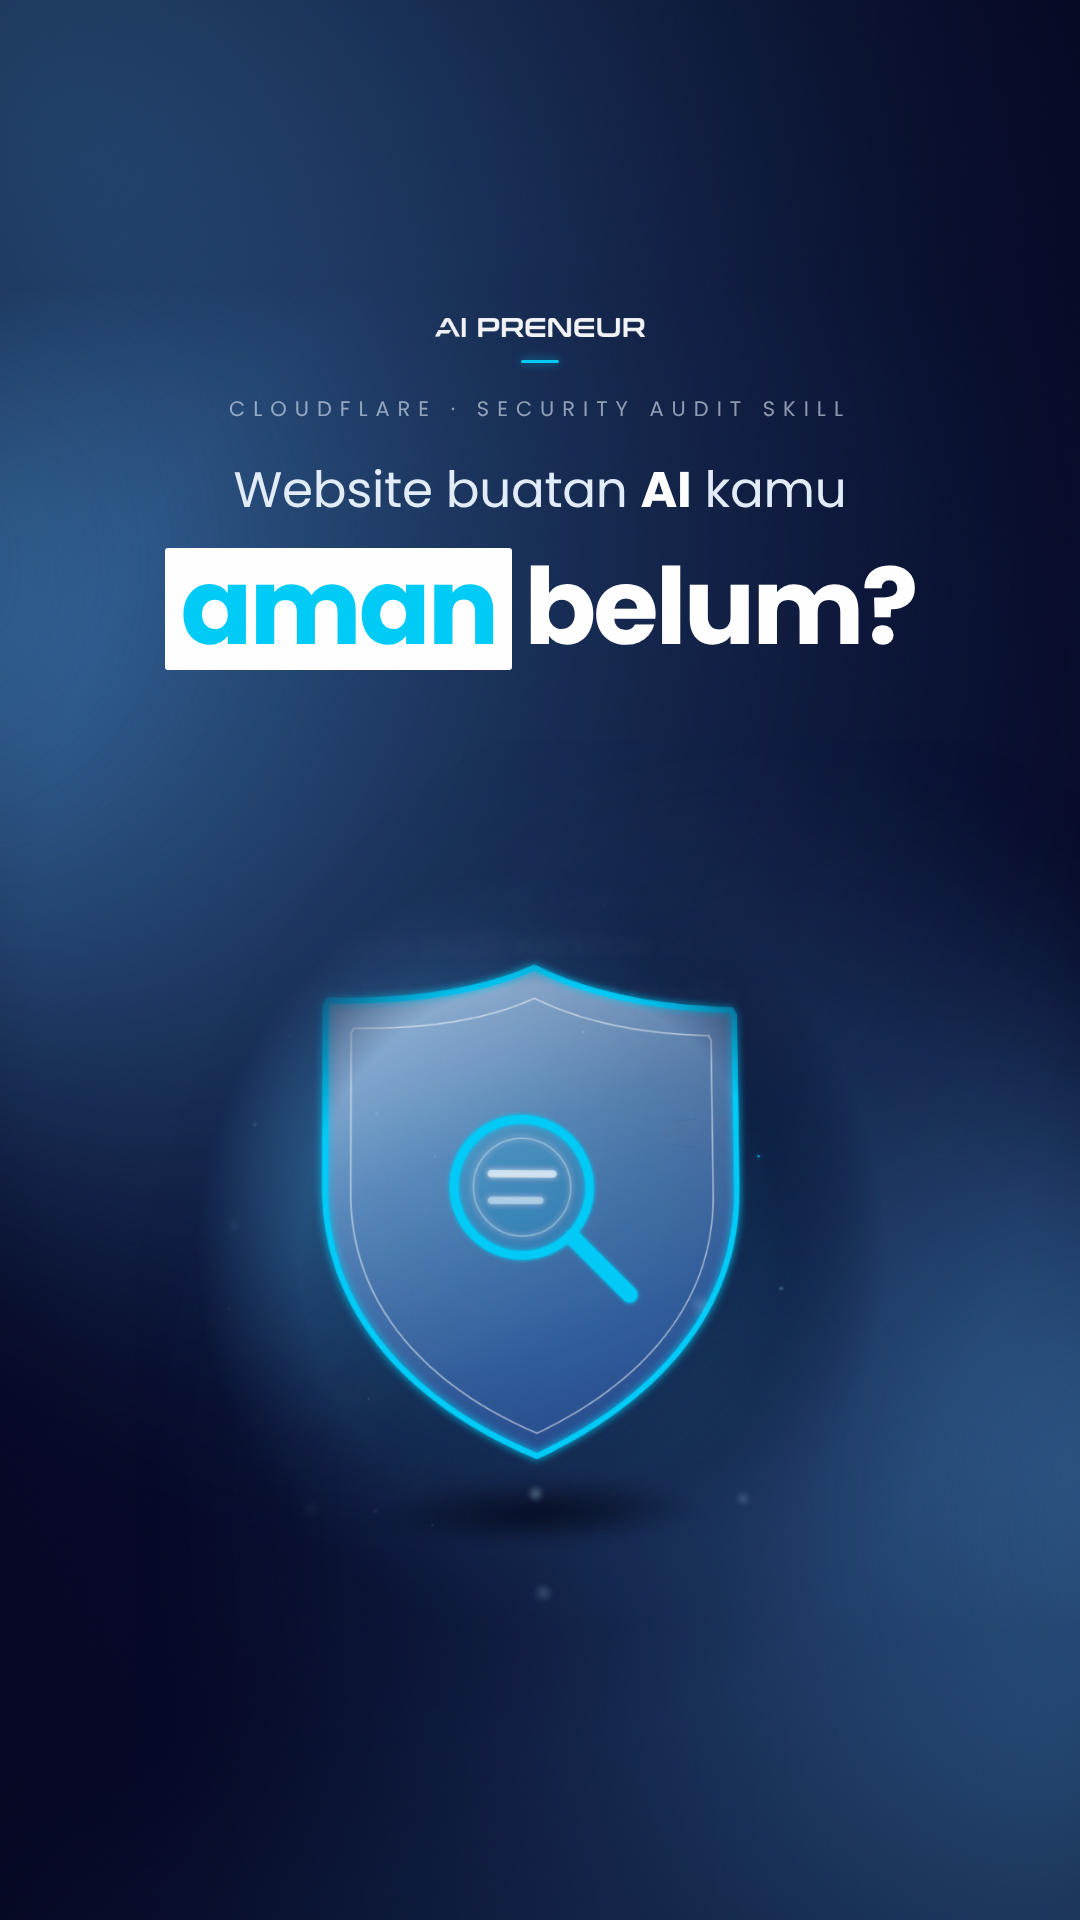
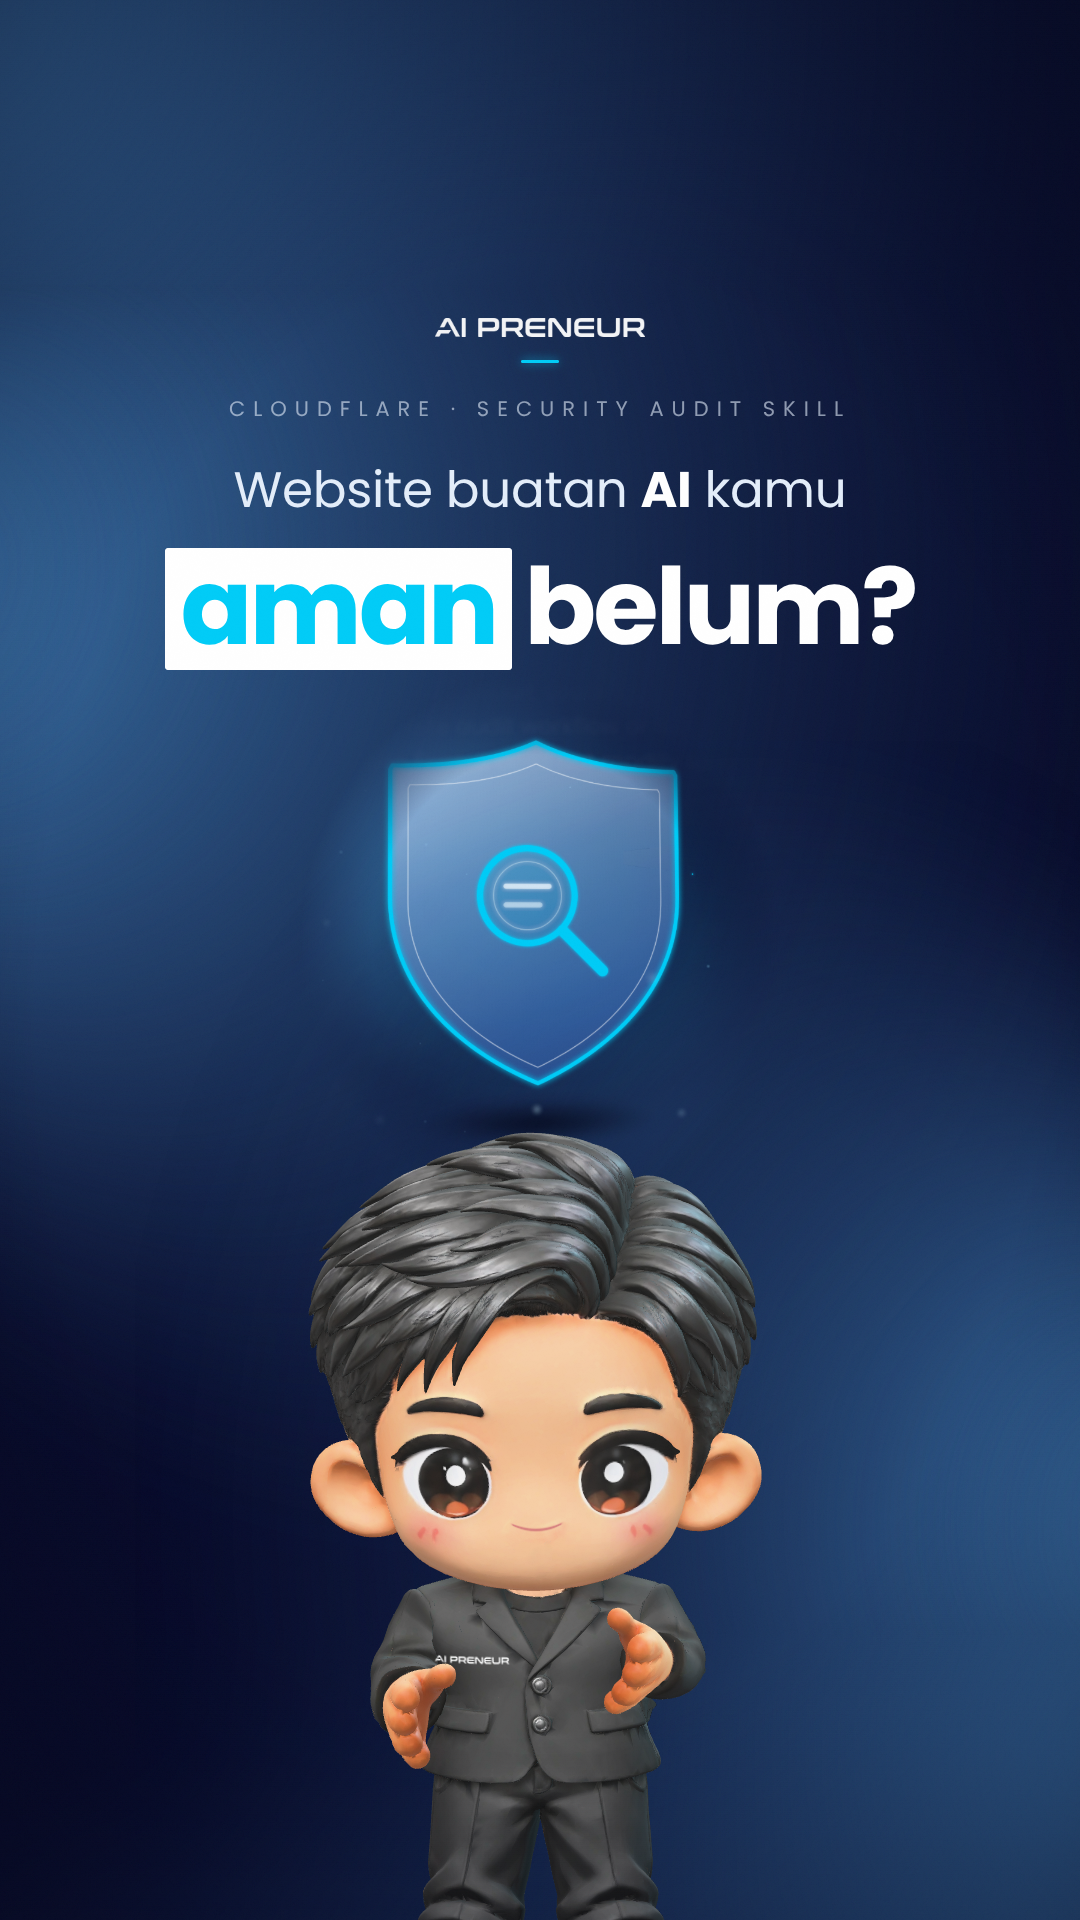
cloudflare_audit_2026: cover with the 3D mascot presenting the floating shield
Claude-Session: https://claude.ai/code/session_01FYKeHQKRYJvqWR6SYDVSQw

Changed region(s): [[0.2139, 0.375, 0.7028, 1.0]]

diff --git a/projects/cloudflare_audit_2026/thumbnail/cover.html b/projects/cloudflare_audit_2026/thumbnail/cover.html
@@ -3,6 +3,8 @@
 <head>
 <meta charset="UTF-8" />
 <title>Cover Reels — Cloudflare Security Audit Skill</title>
+<script src="../vendor/mascot3d.js"></script>
+<script src="../vendor/vo_words.js"></script>
 <!-- Minimal IG Reels cover 1080x1920 on the client's navy gradient: one hook, one hero (the s13 glass shield), generous negative
      space, Poppins 700/400 white + cyan #01CCF7 with the crisp white marker. Key content inside the 4:5 grid crop (y 285-1635).
      Render: node thumbnail/render_cover.cjs <out.png>   (static server on :8768 at project root) -->
@@ -14,7 +16,7 @@
   #c { position: relative; width: 1080px; height: 1920px; overflow: hidden; }
   .plate { position: absolute; inset: 0; background: url(../assets/brand/bg_1080x1920.png) center / 1080px 1920px no-repeat; }
   .hero { position: absolute; left: 0; top: 0; width: 1080px; height: 1920px; background: url(hero_shield.png) 0 0 / 1080px 1920px no-repeat;
-    transform-origin: 545px 935px; transform: translate(-5px, 320px) scale(0.86);
+    transform-origin: 545px 935px; transform: translate(-5px, 8px) scale(0.6);
     -webkit-mask-image: radial-gradient(ellipse 400px 450px at 545px 935px, #000 70%, transparent 100%); mask-image: radial-gradient(ellipse 400px 450px at 545px 935px, #000 70%, transparent 100%); }
   .ctr { position: absolute; left: 0; width: 1080px; text-align: center; white-space: nowrap; }
   #logo { position: absolute; left: 435px; top: 318px; width: 210px; height: auto; opacity: .95; }
@@ -32,6 +34,7 @@
 <div id="c">
   <div class="plate"></div>
   <div class="hero"></div>
+  <canvas id="m" width="1080" height="1920" style="position:absolute;left:0;top:0;width:1080px;height:1920px"></canvas>
   <div class="vig"></div>
   <img id="logo" src="../assets/brand/logo_user_white.png" alt="AI PRENEUR">
   <div id="rule"></div>
@@ -40,6 +43,28 @@
   <div id="l2" class="ctr"><span class="k">aman</span>belum?</div>
   <div class="grain"></div>
 </div>
-<script>window.COVER_READY = document.fonts.ready.then(() => new Promise((r) => { const i = new Image(); i.onload = r; i.src = "hero_shield.png"; }));</script>
+<script>
+  // 3D mascot (same rig, face config and chest print as the reel), half body at the bottom, pose sampled from the reel's acting
+  const q = new URLSearchParams(location.search), M3 = window.Mascot3D, VW = window.VO_WORDS, D = 48.6667;
+  const wt = (txt) => { const w = VW.find((x) => x[0] === txt); return w ? w[1] : 0; };
+  const intents = [{ t: 0.3, action: "idle" }, { t: wt("keren.") - 0.1, action: "present", side: "left" }, { t: wt("Tapi"), action: "question", side: "left" },
+    { t: 20.7, action: "idle" }, { t: wt("tunggu,") - 0.12, action: "emphasize", side: "right" }, { t: wt("bagian"), action: "reveal" }, { t: 46.5, action: "idle" }, { t: wt("Komen") - 0.1, action: "cta", side: "right" }];
+  const DIR = M3.direct(VW, D, { intents, seed: 9, quiet: 0.3, look: 0 });
+  const PERF = M3.buildPerformance(DIR.tracks, D + 0.05, { smooth: 1 });
+  const FACE = {"eyeA": {"c": [-0.1017, 0.6033], "r": [0.037, 0.034], "n": 344, "J": [-0.8070804081852212, -0.28336927447264443, -0.2689292148517819, 0.767464652853189], "uv0": [0.41428961906002, 0.6508527738073399], "maxErr": 0.0075728971647898765}, "eyeB": {"c": [0.1, 0.602], "r": [0.037, 0.034], "n": 344, "J": [0.7239884387099991, -0.06125307155111093, -0.04553605872381199, -0.7027396856405153], "uv0": [0.10665626011522979, 0.44039104240012367], "maxErr": 0.005958813097786782}, "browA": {"c": [-0.101, 0.689], "n": 99, "J": [-0.2397367555212638, 0.8539817292816768, 0.7021133260473107, 0.3275224085304049], "uv0": [0.6104683461950666, 0.4751860845807758], "maxErr": 0.0034168031311564056}, "browB": {"c": [0.1, 0.689], "n": 183, "J": [0.7452202855149699, -0.1768453408899853, -0.1387417639801932, -0.7149624190012184], "uv0": [0.09597917118934614, 0.3768964421328661], "maxErr": 0.004863166031021183}, "mouth": {"c": [0, 0.547], "r": [0.03, 0.016]}, "skin": [253, 200, 156], "skinEye": [243, 186, 141], "coverNormal": 0, "lidLit": [1, 1, 1], "mouthDy": 0, "faceSmooth": 1, "lidRing": 1.5, "browNy": 0.98, "headC": [0, 0.72, 0]};
+  const DECALS = [{"url": "../assets/mascot3d/logo_chest_biz.png", "bone": "chest", "box": [-0.121, -0.033, 0.37539, 0.38661], "zgrid": [[0.05918, 0.05986, 0.06348, 0.06583, 0.06825, 0.06985, 0.07132, 0.07285, 0.07444, 0.07579, 0.07706, 0.07828, 0.0795, 0.08076, 0.08183, 0.08281, 0.0838, 0.08481, 0.08583, 0.08685, 0.08787, 0.08888, 0.08981, 0.09063, 0.09144, 0.09225, 0.09307, 0.09388, 0.09465, 0.09541, 0.09616, 0.09692, 0.09765, 0.09827, 0.09889, 0.09951, 0.10004, 0.10057, 0.10109, 0.10162, 0.10214, 0.10261, 0.10308, 0.10355, 0.10399, 0.1044, 0.1048, 0.10521, 0.1056, 0.10596, 0.10633, 0.10666, 0.10688, 0.1071, 0.10732, 0.10752], [0.05861, 0.05866, 0.06206, 0.06489, 0.06726, 0.06944, 0.07091, 0.07238, 0.07389, 0.07544, 0.07676, 0.07798, 0.0792, 0.08043, 0.08167, 0.08276, 0.08376, 0.08475, 0.08576, 0.08678, 0.0878, 0.08882, 0.08982, 0.09066, 0.09147, 0.09228, 0.09309, 0.0939, 0.09469, 0.09545, 0.0962, 0.09696, 0.09769, 0.0984, 0.09907, 0.09969, 0.10028, 0.10081, 0.10133, 0.10186, 0.10234, 0.10281, 0.10327, 0.10374, 0.10419, 0.1046, 0.10501, 0.10542, 0.10583, 0.10623, 0.10659, 0.10689, 0.10711, 0.10732, 0.10752, 0.10773], [0.05805, 0.05801, 0.06032, 0.06374, 0.06626, 0.06873, 0.0705, 0.07197, 0.07344, 0.07492, 0.07642, 0.07768, 0.07889, 0.08011, 0.08148, 0.08257, 0.08367, 0.08471, 0.08569, 0.08671, 0.08773, 0.08875, 0.08975, 0.09067, 0.09149, 0.0923, 0.09311, 0.09393, 0.09474, 0.09549, 0.09625, 0.097, 0.09774, 0.09844, 0.09915, 0.09986, 0.10049, 0.10105, 0.10157, 0.10206, 0.10253, 0.103, 0.10347, 0.10394, 0.1044, 0.10481, 0.10521, 0.10562, 0.10603, 0.10644, 0.10685, 0.10711, 0.10732, 0.10752, 0.10772, 0.10793], [0.05741, 0.05733, 0.05835, 0.06239, 0.06532, 0.06773, 0.07013, 0.07156, 0.07303, 0.0745, 0.07597, 0.07738, 0.07856, 0.07979, 0.08129, 0.08239, 0.08348, 0.08457, 0.08566, 0.08664, 0.08766, 0.08868, 0.08968, 0.09062, 0.09152, 0.09233, 0.09314, 0.09395, 0.09476, 0.09554, 0.09629, 0.09705, 0.09778, 0.09847, 0.09918, 0.0999, 0.10061, 0.10129, 0.10179, 0.10226, 0.10272, 0.10319, 0.10366, 0.10413, 0.1046, 0.10501, 0.10542, 0.10583, 0.10624, 0.10665, 0.10702, 0.1073, 0.10752, 0.10772, 0.10793, 0.10813], [0.05677, 0.05665, 0.05649, 0.06086, 0.06405, 0.06674, 0.06921, 0.07114, 0.07262, 0.07409, 0.07556, 0.07703, 0.07824, 0.07947, 0.08097, 0.0822, 0.08329, 0.08438, 0.08547, 0.08656, 0.08759, 0.08861, 0.08961, 0.09057, 0.09148, 0.09235, 0.09316, 0.09397, 0.09479, 0.09558, 0.09633, 0.09709, 0.09782, 0.09851, 0.09922, 0.09993, 0.10064, 0.10136, 0.10196, 0.10245, 0.10292, 0.10339, 0.10386, 0.10433, 0.1048, 0.10522, 0.10562, 0.10603, 0.10644, 0.10682, 0.10718, 0.10745, 0.1077, 0.10793, 0.10813, 0.10834], [0.05614, 0.05598, 0.05582, 0.0589, 0.0629, 0.06573, 0.06821, 0.07068, 0.0722, 0.07368, 0.07515, 0.07662, 0.07792, 0.07914, 0.08064, 0.08201, 0.0831, 0.0842, 0.08529, 0.08638, 0.08747, 0.08855, 0.08954, 0.09049, 0.09143, 0.09233, 0.09319, 0.094, 0.09481, 0.09562, 0.09638, 0.09713, 0.09787, 0.09856, 0.09925, 0.09996, 0.10068, 0.10139, 0.10204, 0.10257, 0.1031, 0.10358, 0.10405, 0.10452, 0.10499, 0.10542, 0.10583, 0.10624, 0.10661, 0.10697, 0.10733, 0.10761, 0.10786, 0.1081, 0.10833, 0.10854], [0.05546, 0.0553, 0.05514, 0.05691, 0.06176, 0.0646, 0.06723, 0.06968, 0.07183, 0.07326, 0.07474, 0.07621, 0.07759, 0.07882, 0.08032, 0.08182, 0.08292, 0.08401, 0.0851, 0.08619, 0.08728, 0.08837, 0.08947, 0.0904, 0.09135, 0.09228, 0.09319, 0.09402, 0.09483, 0.09565, 0.09642, 0.09718, 0.09791, 0.0986, 0.09929, 0.1, 0.10071, 0.10143, 0.10207, 0.10266, 0.10319, 0.10371, 0.10424, 0.10472, 0.10519, 0.10563, 0.10603, 0.10641, 0.10677, 0.10713, 0.10749, 0.10776, 0.10801, 0.10826, 0.10851, 0.10874], [0.05478, 0.05459, 0.05438, 0.05532, 0.06033, 0.06348, 0.06644, 0.06869, 0.07115, 0.07285, 0.07432, 0.0758, 0.07727, 0.0785, 0.08, 0.0815, 0.08273, 0.08382, 0.08491, 0.086, 0.08709, 0.08823, 0.08938, 0.09034, 0.09125, 0.0922, 0.09314, 0.09405, 0.09486, 0.09567, 0.09646, 0.09722, 0.09795, 0.09864, 0.09933, 0.10003, 0.10075, 0.10146, 0.10211, 0.10273, 0.10327, 0.1038, 0.10433, 0.10486, 0.10538, 0.10583, 0.1062, 0.10656, 0.10692, 0.10728, 0.10764, 0.10791, 0.10816, 0.10841, 0.10866, 0.10891], [0.05405, 0.05383, 0.05355, 0.05312, 0.05843, 0.06236, 0.06559, 0.06787, 0.07016, 0.07252, 0.07391, 0.07538, 0.07695, 0.07818, 0.07968, 0.08117, 0.08254, 0.08364, 0.08473, 0.08582, 0.08691, 0.08812, 0.08928, 0.09031, 0.09121, 0.09211, 0.09306, 0.09399, 0.09488, 0.09569, 0.09651, 0.09726, 0.098, 0.09869, 0.09938, 0.10007, 0.10078, 0.10149, 0.10214, 0.10277, 0.10336, 0.10389, 0.10442, 0.10494, 0.10547, 0.10592, 0.10636, 0.10672, 0.10708, 0.10744, 0.1078, 0.10807, 0.10832, 0.10856, 0.10881, 0.10906]], "offset": 0.0011, "emissive": 0.55, "roughness": 0.6, "skinned": true}];
+  const T = parseFloat(q.get("t") || "21.8");
+  window.COVER_READY = Promise.all([document.fonts.ready, new Promise((r) => { const i = new Image(); i.onload = r; i.src = "hero_shield.png"; }),
+    M3.Mascot.create(document.getElementById("m"), { url: "../assets/mascot3d/mascot_biz_rigged.glb", face: FACE, decals: DECALS, width: 1080, height: 1920, envIntensity: 0.6 })])
+    .then(([, , m]) => {
+      for (const o of m.scene.children) if (o.isDirectionalLight && o.position.z < 0) { o.intensity = 2.2; o.color.setRGB(0.3, 0.82, 1.0); o.position.set(1.6, 1.5, -1.4); }
+      if (m.shadow) m.shadow.visible = false;
+      const Pf = PERF(T);
+      m.setView({ fx: 540, fy: 1985, h: 860, yaw: 0, pitch: 4 });
+      m.setState({ root: { x: Pf.root.x, y: Pf.root.y, ry: Pf.root.ry, rz: Pf.root.rz, rx: 0, s: Pf.root.s }, bones: Pf.bones,
+        face: { blink: [0, 0], gaze: [0, 0], mouthMix: 1, mouth: [0.03, 0.0, 0.007, 0.0] } });
+      m.render();
+    });
+</script>
 </body>
 </html>
